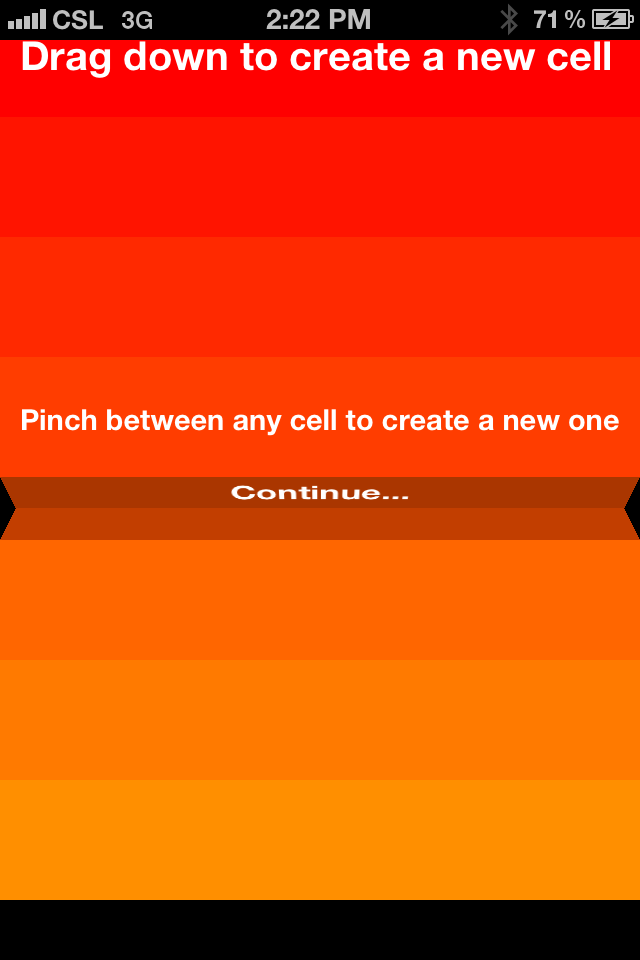
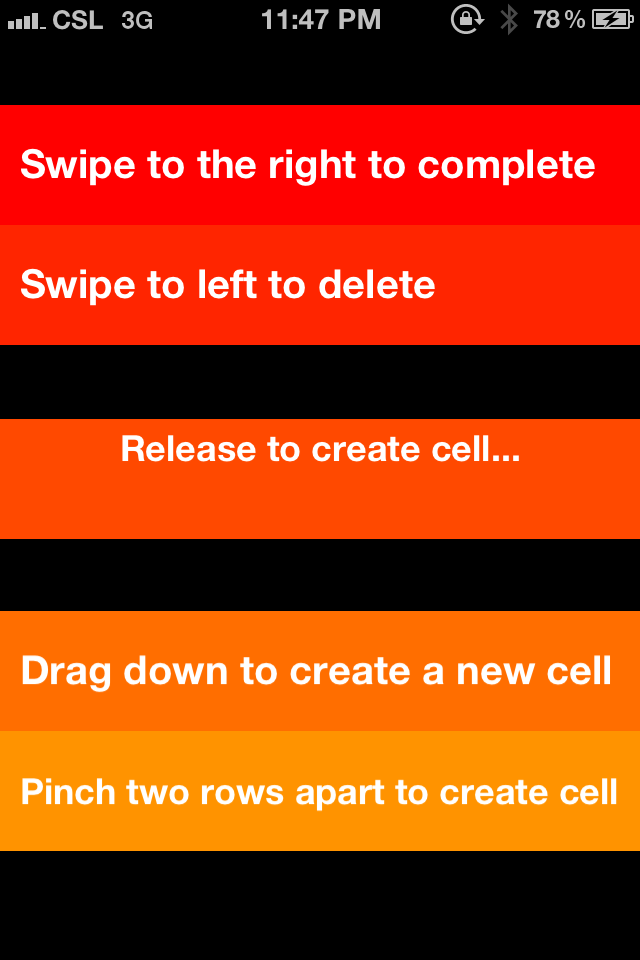
- Pinch two rows apart to create cell effect

diff --git a/JTGestureBasedTableView/TransformableTableViewCell.m b/JTGestureBasedTableView/TransformableTableViewCell.m
@@ -55,24 +55,16 @@
     [self.textLabel.layer setTransform:transform];
     [self.detailTextLabel.layer setTransform:CATransform3DMakeRotation((M_PI / 2) - asinf(fraction), 1, 0, 0)];
 
+    self.textLabel.backgroundColor       = [self.tintColor colorWithBrightness:0.3 + 0.7*fraction];
+    self.detailTextLabel.backgroundColor = [self.tintColor colorWithBrightness:0.5 + 0.5*fraction];
 
-    if (fraction == 1) {
-        self.textLabel.backgroundColor       = [UIColor clearColor];
-        self.detailTextLabel.backgroundColor = [UIColor clearColor];
-        self.contentView.backgroundColor     = self.tintColor;
-    } else {
-        self.textLabel.backgroundColor       = [self.tintColor colorWithBrightness:0.3 + 0.7*fraction];
-        self.detailTextLabel.backgroundColor = [self.tintColor colorWithBrightness:0.5 + 0.5*fraction];
-        self.contentView.backgroundColor     = [UIColor clearColor];
-    }
-
-    fraction = 1 / fraction;
-
-    CGFloat labelHeight = ceilf(self.contentView.frame.size.height/2*fraction);
-    labelHeight = MIN(MAX(1, labelHeight), 800);
-    
-    self.textLabel.frame = CGRectMake(0, 0, self.contentView.frame.size.width, labelHeight);
-    self.detailTextLabel.frame = CGRectMake(0,self.contentView.frame.size.height - labelHeight, self.contentView.frame.size.width, labelHeight);
+    CGSize contentViewSize = self.contentView.frame.size;
+    CGFloat contentViewMidY = (int)(contentViewSize.height / 2 + 0.5);
+    CGFloat labelHeight = ceilf(self.finishedHeight / 2);
+    self.textLabel.frame = CGRectMake(0, contentViewMidY - floorf(labelHeight * fraction),
+                                      contentViewSize.width, labelHeight);
+    self.detailTextLabel.frame = CGRectMake(0, contentViewMidY - ceilf(labelHeight * (1 - fraction)),
+                                            contentViewSize.width, labelHeight);
 }
 
 @end

diff --git a/JTGestureBasedTableViewDemo/ViewController.m b/JTGestureBasedTableViewDemo/ViewController.m
@@ -36,7 +36,7 @@
                      @"Swipe to the right to complete",
                      @"Swipe to left to delete",
                      @"Drag down to create a new cell",
-                     @"Pinch between any cell to create a new one",
+                     @"Pinch two rows apart to create cell",
                      nil];
     }
     return self;
@@ -86,11 +86,10 @@
         cell.finishedHeight = COMMITING_CREATE_CELL_HEIGHT;
         if (cell.frame.size.height > COMMITING_CREATE_CELL_HEIGHT) {
             cell.textLabel.text = @"Release to create cell...";
-            cell.contentView.backgroundColor = cell.tintColor;
         } else {
             cell.textLabel.text = (NSString *)object;
-            cell.contentView.backgroundColor = [UIColor clearColor];
         }
+        cell.contentView.backgroundColor = [UIColor clearColor];
         cell.detailTextLabel.text = @" ";
         return cell;
     
